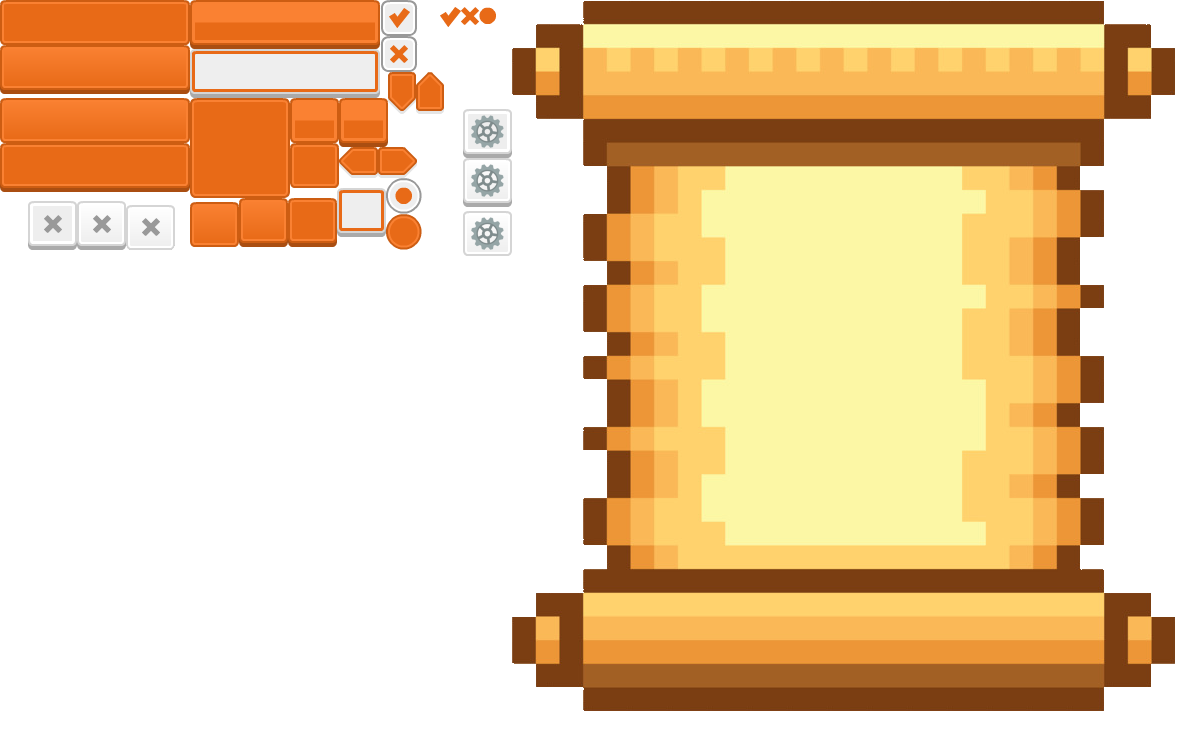
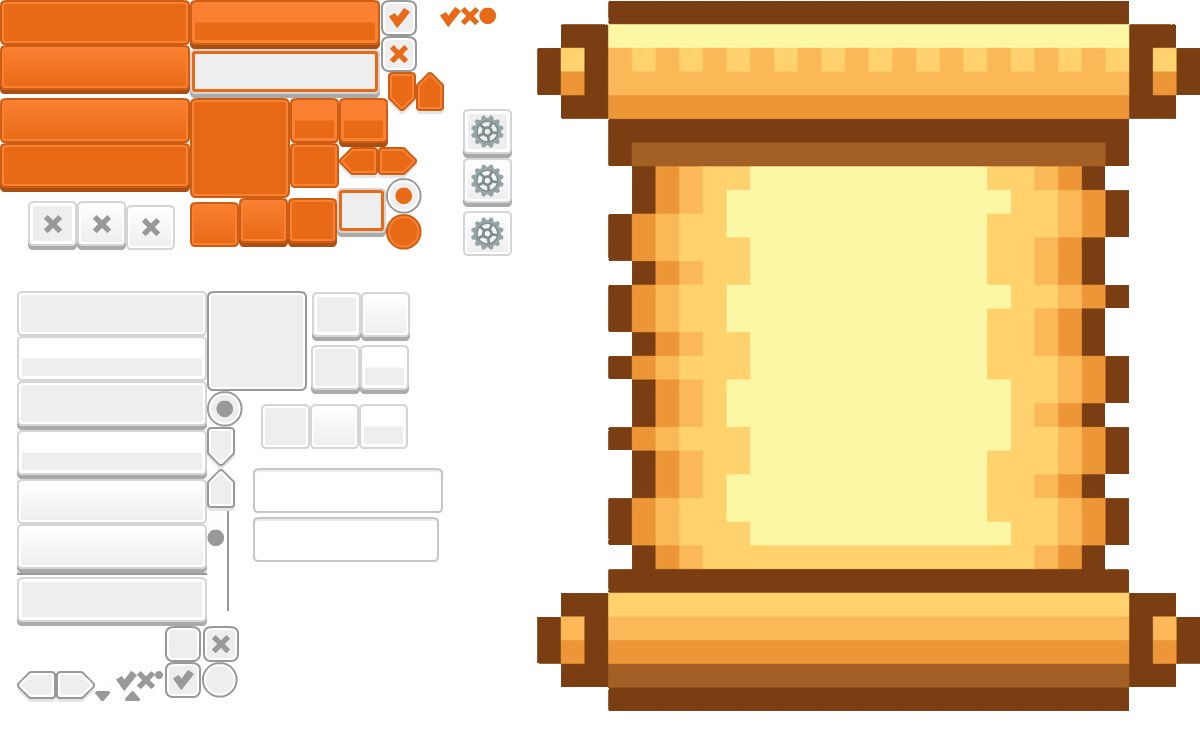
implemented buttons for credit scene

diff --git a/The Cliffborn Islands/Motor2D/j1SceneCredits.cpp b/The Cliffborn Islands/Motor2D/j1SceneCredits.cpp
@@ -59,23 +59,22 @@ bool j1SceneCredits::Start()
 		SDL_Rect hovered = { 0, 45, 190, 49 };
 		SDL_Rect clicked = { 0, 94, 190, 49 };
 
-		App->gui->CreateButton(&creditsButtons, BUTTON, 80, 110, idle, hovered, clicked, gui_tex, PLAY_GAME);
-		App->gui->CreateButton(&creditsButtons, BUTTON, 80, 135, idle, hovered, clicked, gui_tex, CONTINUE);
-		App->gui->CreateButton(&creditsButtons, BUTTON, 80, 160, idle, hovered, clicked, gui_tex, OPEN_CREDITS);
+		App->gui->CreateButton(&creditsButtons, BUTTON, 80, 160, idle, hovered, clicked, gui_tex, LINK);
 
 		SDL_Rect idle2 = { 28, 201, 49, 49 };
 		SDL_Rect hovered2 = { 77, 201, 49, 49 };
 		SDL_Rect clicked2 = { 126, 201, 49, 49 };
+
 		App->gui->CreateButton(&creditsButtons, BUTTON, 229, 3, idle2, hovered2, clicked2, gui_tex, CLOSE_GAME);
 
-		SDL_Rect idle3 = { 463, 109, 49, 49 };
-		SDL_Rect hovered3 = { 463, 158, 49, 49 };
-		SDL_Rect clicked3 = { 463, 207, 49, 49 };
-		App->gui->CreateButton(&creditsButtons, BUTTON, 3, 3, idle3, hovered3, clicked3, gui_tex, SETTINGS);
+		SDL_Rect idle3 = { 312, 292, 49, 49 };
+		SDL_Rect hovered3 = { 361, 292, 49, 49 };
+		SDL_Rect clicked3 = { 310, 400, 49, 49 };
+		App->gui->CreateButton(&creditsButtons, BUTTON, 3, 3, idle3, hovered3, clicked3, gui_tex, GO_TO_MENU);
 
-		App->gui->CreateLabel(&creditsLabels, LABEL, 106, 115, font, "Start", { 245, 245, 220, 255 });
-		App->gui->CreateLabel(&creditsLabels, LABEL, 90, 140, font, "Continue", { 245, 245, 220, 255 });
-		App->gui->CreateLabel(&creditsLabels, LABEL, 98, 165, font, "Credits", { 245, 245, 220, 255 });
+		App->gui->CreateLabel(&creditsLabels, LABEL, 90, 165, font, "Webpage", { 245, 245, 220, 255 });
+		App->gui->CreateLabel(&creditsLabels, LABEL, 106, 115, font, "Back", { 245, 245, 220, 255 });
+		//App->gui->CreateLabel(&creditsLabels, LABEL, 98, 165, font, "Credits", { 245, 245, 220, 255 });
 	}						 
 
 	return true;
@@ -98,7 +97,7 @@ bool j1SceneCredits::Update(float dt)
 	App->gui->UpdateButtonsState(&creditsButtons);
 
 	// Button actions
-	/*for (p2List_item<j1Button*>* item = App->gui->buttons.start; item != nullptr; item = item->next) {
+	for (p2List_item<j1Button*>* item = creditsButtons.start; item != nullptr; item = item->next) {
 		switch (item->data->state)
 		{
 		case IDLE:
@@ -111,22 +110,14 @@ bool j1SceneCredits::Update(float dt)
 
 		case RELEASED:
 			item->data->situation = item->data->idle;
-			if (item->data->bfunction == PLAY_GAME) {
-				startGame = true;
-				App->fade->FadeToBlack();
-			}
-			else if (item->data->bfunction == CONTINUE) {
-				loadGame = true;
+			if (item->data->bfunction == GO_TO_MENU) {
+				backToMenu = true;
 				App->fade->FadeToBlack();
 			}
 			else if (item->data->bfunction == CLOSE_GAME) {
 				continueGame = false;
 			}
-			else if (item->data->bfunction == SETTINGS) {
-				settings_window->visible = !settings_window->visible;
-				settings_window->position = settingsPosition;
-			}
-			else if (item->data->bfunction == OPEN_CREDITS) {
+			else if (item->data->bfunction == LINK) {
 				ShellExecuteA(NULL, "open", "https://goo.gl/SUk3ra", NULL, NULL, SW_SHOWNORMAL);
 			}
 			break;
@@ -134,14 +125,13 @@ bool j1SceneCredits::Update(float dt)
 		case CLICKED:
 			item->data->situation = item->data->clicked;
 			break;
-		}
 	}
+}
 
-	if (startGame && App->fade->IsFading() == 0) {
-		ChangeScene(SCENE1);
-		player_created = true;
+
+	if (backToMenu && App->fade->IsFading() == 0) {
+		ChangeScene();
 	}
-	*/
 
 	// ---------------------------------------------------------------------------------------------------------------------
 	// DRAWING EVERYTHING ON THE SCREEN
@@ -149,7 +139,7 @@ bool j1SceneCredits::Update(float dt)
 
 	// Blitting the buttons
 	for (p2List_item<j1Button*>* item = creditsButtons.start; item != nullptr; item = item->next) {
-		item->data->Draw(0.5f);
+		item->data->Draw(App->gui->UIscale);
 	}
 
 	// Blitting the labels
@@ -196,6 +186,7 @@ bool j1SceneCredits::CleanUp()
 void j1SceneCredits::ChangeScene()
 {
 	this->active = false;
+	backToMenu = false;
 	CleanUp();
 	App->menu->active = true;
 	App->menu->Start();	

diff --git a/The Cliffborn Islands/Motor2D/j1Gui.cpp b/The Cliffborn Islands/Motor2D/j1Gui.cpp
@@ -9,6 +9,7 @@
 #include "j1Label.h"
 #include "j1Box.h"
 #include "j1SceneMenu.h"
+#include "j1SceneCredits.h"
 #include "j1Scene1.h"
 #include "j1Scene2.h"
 
@@ -22,12 +23,13 @@ j1Gui::~j1Gui()
 {}
 
 // Called before render is available
-bool j1Gui::Awake(pugi::xml_node& conf)
+bool j1Gui::Awake(pugi::xml_node& config)
 {
 	LOG("Loading GUI atlas");
 	bool ret = true;
 
-	atlas_file_name = conf.child("atlas").attribute("file").as_string("");
+	atlas_file_name = config.child("atlas").attribute("file").as_string("");
+	UIscale = config.attribute("scale").as_float();
 
 	return ret;
 }
@@ -97,10 +99,11 @@ void j1Gui::UpdateButtonsState(p2List<j1Button*>* buttons) {
 	int x, y; App->input->GetMousePosition(x, y);
 
 	for (p2List_item<j1Button*>* button = buttons->start; button != nullptr; button = button->next) {
-		if (x <= button->data->position.x + button->data->situation.w * 0.5f && x >= button->data->position.x
-			&& y <= button->data->position.y + button->data->situation.h * 0.5f && y >= button->data->position.y) {
+		if (x <= button->data->position.x + button->data->situation.w * App->gui->UIscale && x >= button->data->position.x
+			&& y <= button->data->position.y + button->data->situation.h * App->gui->UIscale && y >= button->data->position.y) {
 
-			if (App->menu->settings_window->visible && App->menu->settings_window != nullptr && button->data->bfunction != CLOSE_GAME && button->data->bfunction != SETTINGS) continue;
+			if(App->credits->active == false && App->menu->settings_window->visible
+				&& button->data->bfunction != CLOSE_GAME && button->data->bfunction != SETTINGS) continue;
 
 			button->data->state = STATE::HOVERED;
 
@@ -129,8 +132,8 @@ void j1Gui::UpdateBoxesState() {
 		aux = App->scene2->settings_window;*/
 
 	// Checking if it is being dragged
-	if (aux != nullptr && x <= aux->position.x + aux->section.w * 0.5f && x >= aux->position.x
-		&& y <= aux->position.y + aux->section.h * 0.5f && y >= aux->position.y){
+	if (aux != nullptr && x <= aux->position.x + aux->section.w * App->gui->UIscale && x >= aux->position.x
+		&& y <= aux->position.y + aux->section.h * App->gui->UIscale && y >= aux->position.y){
 		if (App->input->GetMouseButtonDown(SDL_BUTTON_LEFT) == KEY_REPEAT)
 			aux->clicked = true;
 		else if (App->input->GetMouseButtonDown(SDL_BUTTON_LEFT) == KEY_UP)

diff --git a/The Cliffborn Islands/Motor2D/j1SceneMenu.cpp b/The Cliffborn Islands/Motor2D/j1SceneMenu.cpp
@@ -86,7 +86,7 @@ bool j1SceneMenu::Start()
 		App->gui->CreateLabel(&menuLabels, LABEL, 90, 140, font, "Continue", { 245, 245, 220, 255 });
 		App->gui->CreateLabel(&menuLabels, LABEL, 98, 165, font, "Credits", { 245, 245, 220, 255 });
 		
-		SDL_Rect section = { 512, 0, 663, 712 };
+		SDL_Rect section = { 537, 0, 663, 712 };
 		settings_window = App->gui->CreateBox(BOX, settingsPosition.x, settingsPosition.y, section, gui_tex);
 
 		player_created = false;
@@ -204,7 +204,7 @@ bool j1SceneMenu::Update(float dt)
 
 	// Blitting the buttons
 	for (p2List_item<j1Button*>* item = menuButtons.start; item != nullptr; item = item->next) {
-		item->data->Draw(0.5f);
+		item->data->Draw(App->gui->UIscale);
 	}
 
 	// Blitting the labels

diff --git a/The Cliffborn Islands/Motor2D/j1Gui.h b/The Cliffborn Islands/Motor2D/j1Gui.h
@@ -27,11 +27,13 @@ enum UIELEMENT_TYPES
 enum ButtonFunction {
 	NO_FUNCTION = 0,
 	PLAY_GAME,
+	GO_TO_MENU,
 	CLOSE_GAME,
 	OPEN_CREDITS,
 	SAVE_GAME,
 	CONTINUE,
-	SETTINGS
+	SETTINGS,
+	LINK
 };
 
 // ---------------------------------------------------
@@ -69,6 +71,9 @@ public:
 	void UpdateBoxesState();
 	
 	const SDL_Texture* GetAtlas() const;
+
+public:
+	float UIscale;
 
 private:
 

diff --git a/The Cliffborn Islands/Motor2D/j1Player.h b/The Cliffborn Islands/Motor2D/j1Player.h
@@ -13,7 +13,6 @@ class j1Player : public j1Entity
 {
 
 public:
-
 	j1Player(int x, int y, ENTITY_TYPES type);
 
 	// Destructor
@@ -118,12 +117,9 @@ private:
 
 	bool loadedAudios = false;
 
-	SDL_Texture* lives_tex;
-
+	SDL_Texture* lives_tex = nullptr;
 	p2SString score;
-
-	j1Label* score_label;
-
+	j1Label* score_label = nullptr;
 	_TTF_Font* text = nullptr;
 };
 

diff --git a/The Cliffborn Islands/Motor2D/j1SceneCredits.h b/The Cliffborn Islands/Motor2D/j1SceneCredits.h
@@ -50,6 +50,7 @@ private:
 	_TTF_Font* font = nullptr;
 
 	bool continueGame = true;
+	bool backToMenu = false;
 };
 
 #endif // __j1SCENECREDITS_H__
